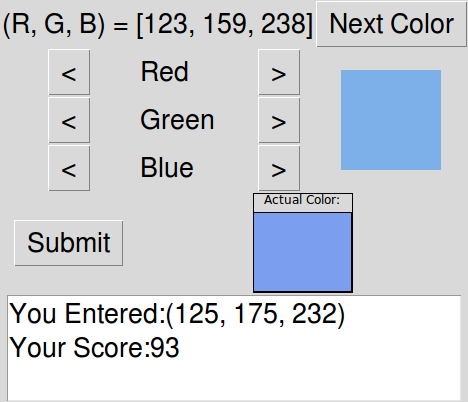
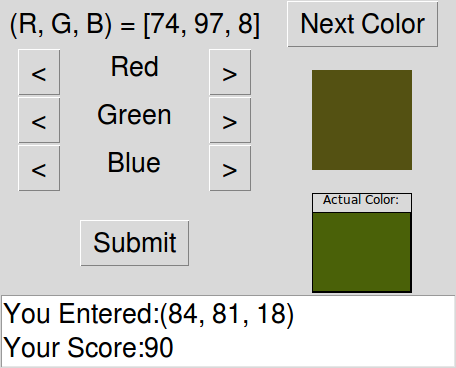
adjust layout

diff --git a/numberlearn.py b/numberlearn.py
@@ -52,19 +52,19 @@ class Application(Frame):
 
         self.red_decrease = Button(self, text="<", font=self.big_font, command=lambda:self.select_color(0, -1), repeatdelay=200, repeatinterval=10)
         self.red_decrease.grid(row=1, column=0)
-        Label(self, font=self.big_font, text="Red").grid(row=1, column=1, sticky=W)
+        Label(self, font=self.big_font, text="Red").grid(row=1, column=1, sticky=N)
         self.red_increase = Button(self, text=">", font=self.big_font, command=lambda:self.select_color(0, 1), repeatdelay=200, repeatinterval=10)
         self.red_increase.grid(row=1, column=2)
 
         self.green_decrease = Button(self, text="<", font=self.big_font, command=lambda:self.select_color(1, -1), repeatdelay=200, repeatinterval=10)
         self.green_decrease.grid(row=2, column=0)
-        Label(self, font=self.big_font, text="Green").grid(row=2, column=1, sticky=W)
+        Label(self, font=self.big_font, text="Green").grid(row=2, column=1, sticky=N)
         self.green_increase = Button(self, text=">", font=self.big_font, command=lambda:self.select_color(1, 1), repeatdelay=200, repeatinterval=10)
         self.green_increase.grid(row=2, column=2)
 
         self.blue_decrease = Button(self, text="<", font=self.big_font, command=lambda:self.select_color(2, -1), repeatdelay=200, repeatinterval=10)
         self.blue_decrease.grid(row=3, column=0)
-        Label(self, font=self.big_font, text="Blue").grid(row=3, column=1, sticky=W)
+        Label(self, font=self.big_font, text="Blue").grid(row=3, column=1, sticky=N)
         self.blue_increase = Button(self, text=">", font=self.big_font, command=lambda:self.select_color(2, 1), repeatdelay=200, repeatinterval=10)
         self.blue_increase.grid(row=3, column=2)
 
@@ -72,16 +72,16 @@ class Application(Frame):
         self.answer_canvas.grid(row=1, column=3, rowspan=3, columnspan=3)
 
         self.submit = Button(self, text="Submit", font=self.big_font, command = self.submit)
-        self.submit.grid(row=4, column=0)
+        self.submit.grid(row=4, column=0, columnspan=3)
 
         #Field to show the color the user was supposed to create
         self.prompt_canvas = Canvas(self, width=100, height=100)
         self.prompt_canvas.create_rectangle(1, 1, 100, 100)
         self.prompt_canvas.create_text(50, 1, text="Actual Color:", anchor=N)
-        self.prompt_canvas.grid(row=4, column=1, columnspan = 3)
+        self.prompt_canvas.grid(row=4, column=3, columnspan = 3)
 
         #Text output for scores
-        self.text_out = Text(self, width="30", height=3, font=self.big_font)
+        self.text_out = Text(self, width="30", height=2, font=self.big_font)
         self.text_out.grid(row=5, column=0, columnspan=4)
 
 root = Tk()
